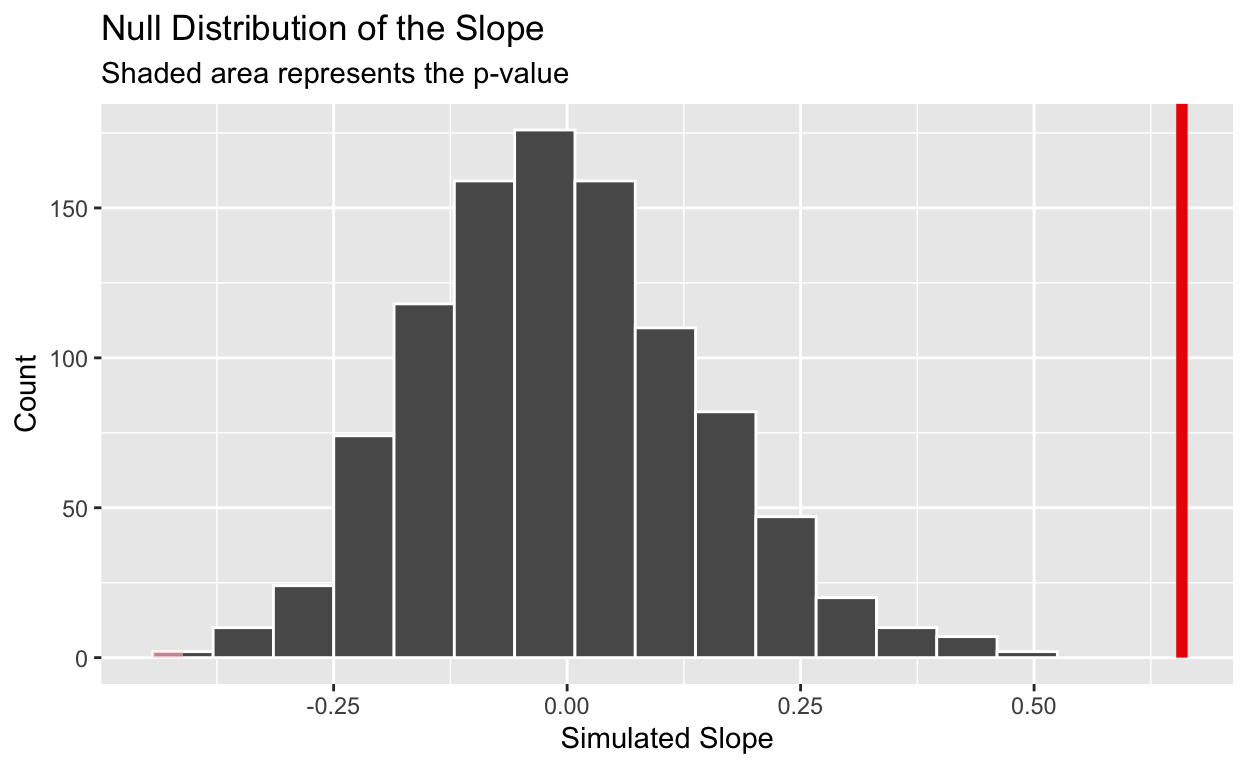
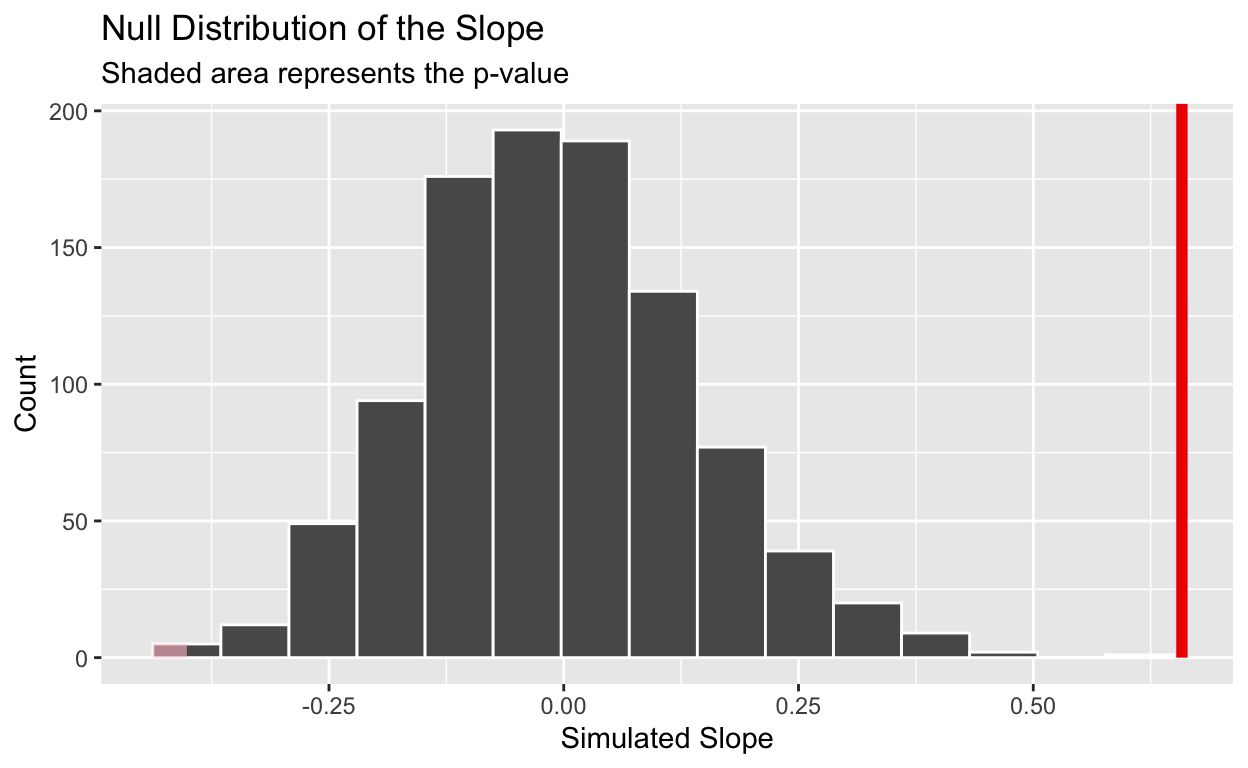
effect

diff --git a/index.html b/index.html
@@ -89,7 +89,7 @@ code span.wa { color: #5e5e5e; font-style: italic; } /* Warning */
 
 
   <!--radix_placeholder_meta_tags-->
-  <title>How Educational Attainment Effects Democratic Performance: Evidence from the 2024 Presidential Election in Wisconsin</title>
+  <title>How Educational Attainment Affects Democratic Performance: Evidence from the 2024 Presidential Election in Wisconsin</title>
 
   <meta property="description" itemprop="description" content="PS270 Final Project"/>
 
@@ -97,21 +97,21 @@ code span.wa { color: #5e5e5e; font-style: italic; } /* Warning */
   <meta name="article:author" content="Sophia Phair"/>
 
   <!--  https://developers.facebook.com/docs/sharing/webmasters#markup -->
-  <meta property="og:title" content="How Educational Attainment Effects Democratic Performance: Evidence from the 2024 Presidential Election in Wisconsin"/>
+  <meta property="og:title" content="How Educational Attainment Affects Democratic Performance: Evidence from the 2024 Presidential Election in Wisconsin"/>
   <meta property="og:type" content="article"/>
   <meta property="og:description" content="PS270 Final Project"/>
   <meta property="og:locale" content="en_US"/>
 
   <!--  https://dev.twitter.com/cards/types/summary -->
   <meta property="twitter:card" content="summary"/>
-  <meta property="twitter:title" content="How Educational Attainment Effects Democratic Performance: Evidence from the 2024 Presidential Election in Wisconsin"/>
+  <meta property="twitter:title" content="How Educational Attainment Affects Democratic Performance: Evidence from the 2024 Presidential Election in Wisconsin"/>
   <meta property="twitter:description" content="PS270 Final Project"/>
 
   <!--/radix_placeholder_meta_tags-->
   <!--radix_placeholder_rmarkdown_metadata-->
 
   <script type="text/json" id="radix-rmarkdown-metadata">
-  {"type":"list","attributes":{"names":{"type":"character","attributes":{},"value":["title","author","description","output"]}},"value":[{"type":"character","attributes":{},"value":["How Educational Attainment Effects Democratic Performance: Evidence from the 2024 Presidential Election in Wisconsin"]},{"type":"list","attributes":{},"value":[{"type":"list","attributes":{"names":{"type":"character","attributes":{},"value":["name"]}},"value":[{"type":"character","attributes":{},"value":["Sophia Phair"]}]}]},{"type":"character","attributes":{},"value":["PS270 Final Project"]},{"type":"list","attributes":{"names":{"type":"character","attributes":{},"value":["distill::distill_article"]}},"value":[{"type":"list","attributes":{"names":{"type":"character","attributes":{},"value":["self_contained"]}},"value":[{"type":"logical","attributes":{},"value":[false]}]}]}]}
+  {"type":"list","attributes":{"names":{"type":"character","attributes":{},"value":["title","author","description","output"]}},"value":[{"type":"character","attributes":{},"value":["How Educational Attainment Affects Democratic Performance: Evidence from the 2024 Presidential Election in Wisconsin"]},{"type":"list","attributes":{},"value":[{"type":"list","attributes":{"names":{"type":"character","attributes":{},"value":["name"]}},"value":[{"type":"character","attributes":{},"value":["Sophia Phair"]}]}]},{"type":"character","attributes":{},"value":["PS270 Final Project"]},{"type":"list","attributes":{"names":{"type":"character","attributes":{},"value":["distill::distill_article"]}},"value":[{"type":"list","attributes":{"names":{"type":"character","attributes":{},"value":["self_contained"]}},"value":[{"type":"logical","attributes":{},"value":[false]}]}]}]}
   </script>
   <!--/radix_placeholder_rmarkdown_metadata-->
   
@@ -1523,7 +1523,7 @@ code span.wa { color: #5e5e5e; font-style: italic; } /* Warning */
 <!--radix_placeholder_front_matter-->
 
 <script id="distill-front-matter" type="text/json">
-{"title":"How Educational Attainment Effects Democratic Performance: Evidence from the 2024 Presidential Election in Wisconsin","description":"PS270 Final Project","authors":[{"author":"Sophia Phair","authorURL":"#","affiliation":"&nbsp;","affiliationURL":"#","orcidID":""}]}
+{"title":"How Educational Attainment Affects Democratic Performance: Evidence from the 2024 Presidential Election in Wisconsin","description":"PS270 Final Project","authors":[{"author":"Sophia Phair","authorURL":"#","affiliation":"&nbsp;","affiliationURL":"#","orcidID":""}]}
 </script>
 
 <!--/radix_placeholder_front_matter-->
@@ -1533,7 +1533,7 @@ code span.wa { color: #5e5e5e; font-style: italic; } /* Warning */
 <!--/radix_placeholder_site_before_body-->
 
 <div class="d-title">
-<h1>How Educational Attainment Effects Democratic Performance: Evidence from the 2024 Presidential Election in Wisconsin</h1>
+<h1>How Educational Attainment Affects Democratic Performance: Evidence from the 2024 Presidential Election in Wisconsin</h1>
 
 <!--radix_placeholder_categories-->
 <!--/radix_placeholder_categories-->
@@ -3469,7 +3469,7 @@ WOOD
 </div>
 <h2 id="results">Results</h2>
 <h3 id="regression-analysis">Regression Analysis</h3>
-<p>To further examine the relationship between educational attainment and Democratic vote share, I estimate a cross-sectional linear regression using Wisconsin county-level data from the 2024 presidential election. The estimated slope coefficient of the fit linear regression model indicates how Democratic vote share changes with educational attainment.</p>
+<p>To further examine the relationship between educational attainment and Democratic vote share, a cross-sectional linear regression is estimated using Wisconsin county-level data from the 2024 presidential election. The estimated slope coefficient of the fit linear regression model indicates how Democratic vote share changes with educational attainment.</p>
 <div class="layout-chunk" data-layout="l-body">
 <table>
 <caption><span id="tab:unnamed-chunk-13">Table 1: </span>Linear Regression: Education vs. Kamala Harris Vote Share (WI, 2024)</caption>
